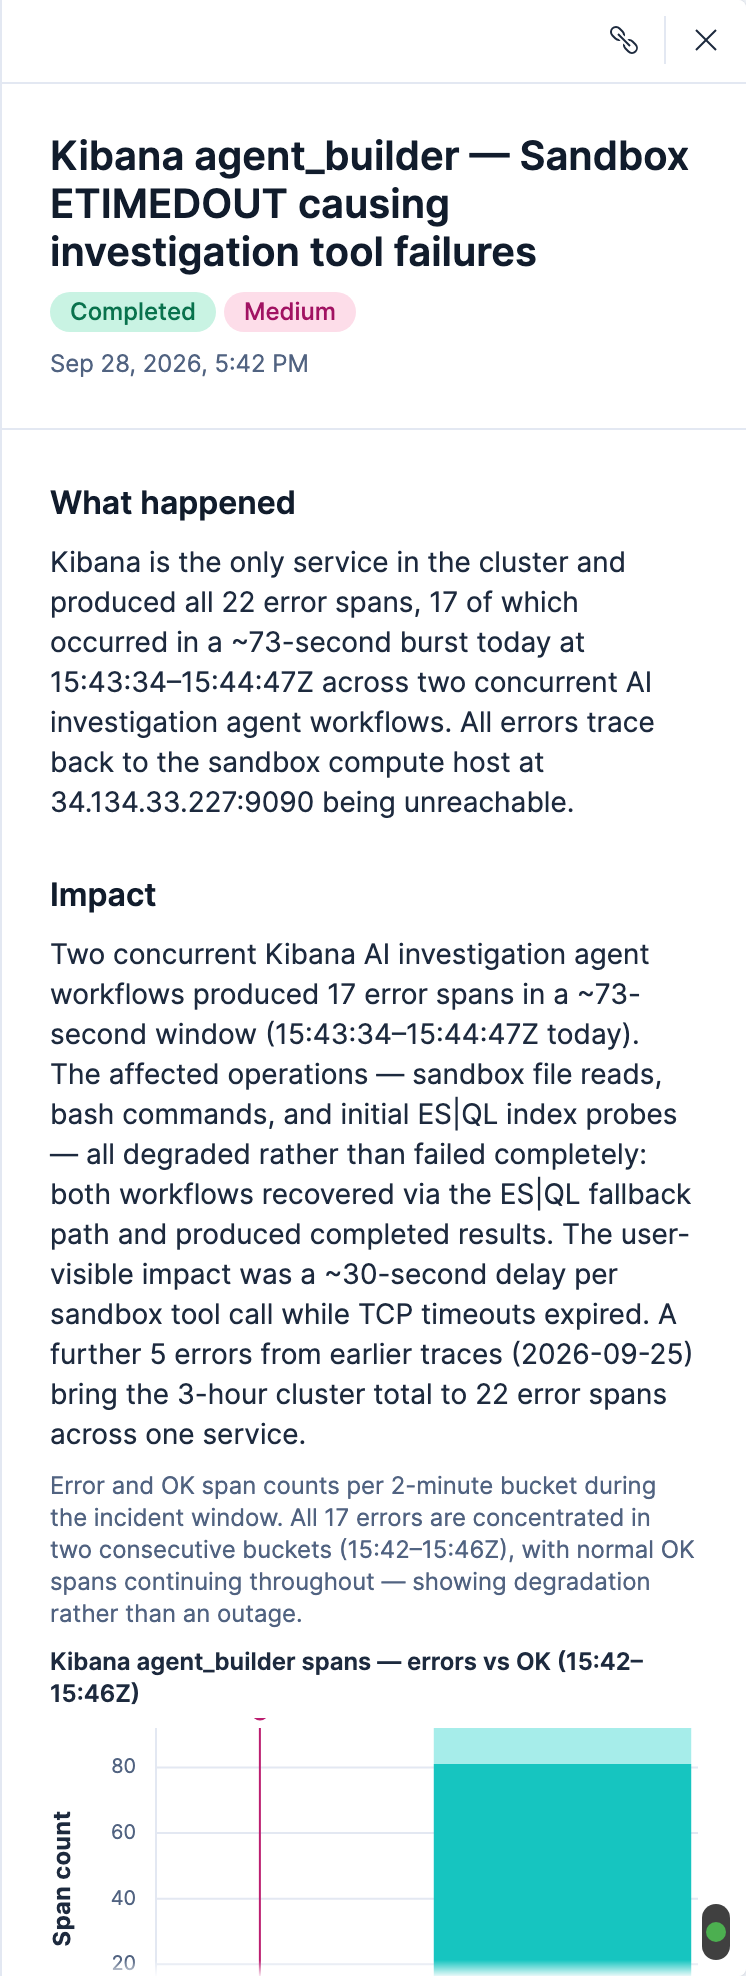
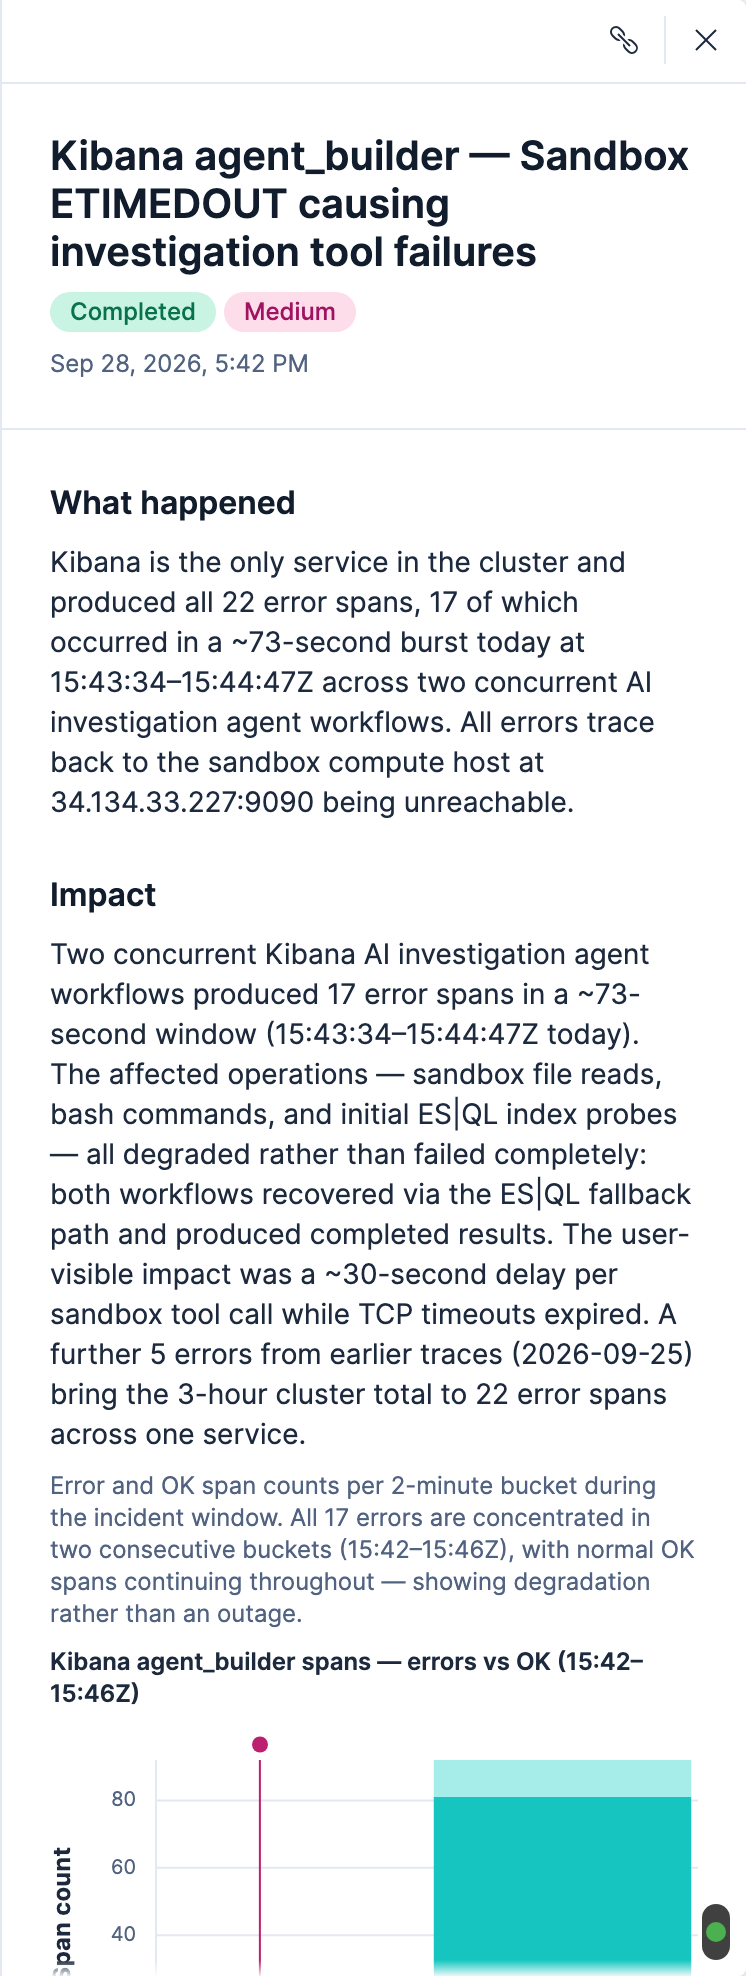
Collapse per-entity impact evidence, make room for chart annotations, list annotation labels; refresh screenshots

diff --git a/x-pack/solutions/observability/packages/kbn-investigation-output/src/evidence_chart.tsx b/x-pack/solutions/observability/packages/kbn-investigation-output/src/evidence_chart.tsx
@@ -36,7 +36,9 @@ import { getTimeZone } from '@kbn/visualization-utils';
 import moment from 'moment-timezone';
 import type { EvidenceChart as EvidenceChartSpec } from '@kbn/significant-events-schema';
 
-const CHART_HEIGHT = 180;
+const CHART_HEIGHT = 200;
+/** Room above the plot for point annotation markers, which are drawn above its top edge. */
+const ANNOTATION_MARKER_MARGIN = 16;
 
 type YAxisUnit = NonNullable<EvidenceChartSpec['y_axis']['unit']>;
 
@@ -154,6 +156,22 @@ export const EvidenceChart: React.FC<EvidenceChartProps> = ({ chart }) => {
     return { pointAnnotations: points, rangeAnnotations: ranges };
   }, [chart.annotations, isTime]);
 
+  const hasAnnotations = pointAnnotations.length > 0 || rangeAnnotations.length > 0;
+  // Point annotation markers are drawn above the plot, so reserve room for them there.
+  const hasPointAnnotations = pointAnnotations.length > 0;
+  const chartTheme = useMemo(
+    () =>
+      hasPointAnnotations
+        ? {
+            chartMargins: {
+              ...baseTheme.chartMargins,
+              top: baseTheme.chartMargins.top + ANNOTATION_MARKER_MARGIN,
+            },
+          }
+        : undefined,
+    [baseTheme.chartMargins, hasPointAnnotations]
+  );
+
   const xScaleType = isTime ? ScaleType.Time : ScaleType.Ordinal;
   const hasData = series.some(({ data }) => data.length > 0);
   const showLegend = series.length > 1;
@@ -170,7 +188,7 @@ export const EvidenceChart: React.FC<EvidenceChartProps> = ({ chart }) => {
         <>
           <EuiSpacer size="xs" />
           <Chart size={{ height: CHART_HEIGHT }}>
-            <Settings baseTheme={baseTheme} showLegend={false} />
+            <Settings baseTheme={baseTheme} theme={chartTheme} showLegend={false} />
             <Axis
               id="x"
               position={Position.Bottom}
@@ -233,7 +251,7 @@ export const EvidenceChart: React.FC<EvidenceChartProps> = ({ chart }) => {
               />
             )}
           </Chart>
-          {showLegend && (
+          {(showLegend || hasAnnotations) && (
             <EuiFlexGroup
               gutterSize="s"
               wrap
@@ -243,11 +261,48 @@ export const EvidenceChart: React.FC<EvidenceChartProps> = ({ chart }) => {
               responsive={false}
               data-test-subj="investigationEvidenceChartLegend"
             >
-              {series.map(({ id, name }, index) => (
-                <EuiFlexItem key={id} grow={false}>
-                  <EuiHealth color={seriesColors[index % seriesColors.length]} textSize="xs">
-                    {name}
+              {showLegend &&
+                series.map(({ id, name }, index) => (
+                  <EuiFlexItem key={id} grow={false}>
+                    <EuiHealth color={seriesColors[index % seriesColors.length]} textSize="xs">
+                      {name}
+                    </EuiHealth>
+                  </EuiFlexItem>
+                ))}
+              {pointAnnotations.map(({ details }, index) => (
+                <EuiFlexItem
+                  key={`point-${index}`}
+                  grow={false}
+                  data-test-subj="investigationEvidenceChartAnnotation"
+                >
+                  <EuiHealth color={euiTheme.colors.accent} textSize="xs">
+                    {details}
                   </EuiHealth>
+                </EuiFlexItem>
+              ))}
+              {rangeAnnotations.map(({ details }, index) => (
+                <EuiFlexItem
+                  key={`range-${index}`}
+                  grow={false}
+                  data-test-subj="investigationEvidenceChartAnnotation"
+                >
+                  <EuiFlexGroup gutterSize="xs" alignItems="center" responsive={false}>
+                    <EuiFlexItem grow={false}>
+                      <span
+                        aria-hidden={true}
+                        css={css`
+                          display: inline-block;
+                          width: ${euiTheme.size.m};
+                          height: ${euiTheme.size.s};
+                          background: ${euiTheme.colors.accent};
+                          opacity: 0.3;
+                        `}
+                      />
+                    </EuiFlexItem>
+                    <EuiFlexItem grow={false}>
+                      <EuiText size="xs">{details}</EuiText>
+                    </EuiFlexItem>
+                  </EuiFlexGroup>
                 </EuiFlexItem>
               ))}
             </EuiFlexGroup>

diff --git a/x-pack/solutions/observability/packages/kbn-investigation-output/src/impact_section.tsx b/x-pack/solutions/observability/packages/kbn-investigation-output/src/impact_section.tsx
@@ -6,14 +6,64 @@
  */
 
 import React from 'react';
-import { EuiBadge, EuiFlexGroup, EuiFlexItem, EuiPanel, EuiSpacer, EuiText } from '@elastic/eui';
-import type { InvestigationImpact } from '@kbn/significant-events-schema';
+import {
+  EuiAccordion,
+  EuiBadge,
+  EuiFlexGroup,
+  EuiFlexItem,
+  EuiPanel,
+  EuiSpacer,
+  EuiText,
+  useGeneratedHtmlId,
+} from '@elastic/eui';
+import type {
+  InvestigationImpact,
+  InvestigationImpactEntity,
+} from '@kbn/significant-events-schema';
 import { EvidenceItem } from './evidence_list';
 import { EvidenceMarkdown } from './evidence_markdown';
 
 export interface ImpactSectionProps {
   impact: InvestigationImpact;
 }
+
+const EntityHeader: React.FC<{ entity: InvestigationImpactEntity }> = ({ entity }) => (
+  <EuiFlexGroup alignItems="center" gutterSize="s" responsive={false}>
+    <EuiFlexItem grow={false}>
+      <EuiText size="s">
+        <strong>{entity.name}</strong>
+      </EuiText>
+    </EuiFlexItem>
+    {entity.type && (
+      <EuiFlexItem grow={false}>
+        <EuiBadge color="hollow">{entity.type}</EuiBadge>
+      </EuiFlexItem>
+    )}
+  </EuiFlexGroup>
+);
+
+/** One impacted entity; its evidence is collapsed by default so the impact summary leads. */
+const ImpactEntity: React.FC<{ entity: InvestigationImpactEntity }> = ({ entity }) => {
+  const accordionId = useGeneratedHtmlId({ prefix: 'investigationImpactEntity' });
+
+  return (
+    <EuiPanel hasBorder hasShadow={false} paddingSize="s">
+      {entity.evidence ? (
+        <EuiAccordion
+          id={accordionId}
+          buttonContent={<EntityHeader entity={entity} />}
+          paddingSize="none"
+          data-test-subj="investigationOutputImpactEntityAccordion"
+        >
+          <EuiSpacer size="xs" />
+          <EvidenceItem evidence={entity.evidence} />
+        </EuiAccordion>
+      ) : (
+        <EntityHeader entity={entity} />
+      )}
+    </EuiPanel>
+  );
+};
 
 /**
  * What the investigation found was affected: the impact narrative and the evidence backing it,
@@ -52,26 +102,7 @@ export const ImpactSection: React.FC<ImpactSectionProps> = ({
                 grow={false}
                 data-test-subj="investigationOutputImpactEntity"
               >
-                <EuiPanel hasBorder hasShadow={false} paddingSize="s">
-                  <EuiFlexGroup alignItems="center" gutterSize="s" responsive={false}>
-                    <EuiFlexItem grow={false}>
-                      <EuiText size="s">
-                        <strong>{entity.name}</strong>
-                      </EuiText>
-                    </EuiFlexItem>
-                    {entity.type && (
-                      <EuiFlexItem grow={false}>
-                        <EuiBadge color="hollow">{entity.type}</EuiBadge>
-                      </EuiFlexItem>
-                    )}
-                  </EuiFlexGroup>
-                  {entity.evidence && (
-                    <>
-                      <EuiSpacer size="xs" />
-                      <EvidenceItem evidence={entity.evidence} />
-                    </>
-                  )}
-                </EuiPanel>
+                <ImpactEntity entity={entity} />
               </EuiFlexItem>
             ))}
           </EuiFlexGroup>

diff --git a/x-pack/solutions/observability/packages/kbn-investigation-output/src/evidence_chart.test.tsx b/x-pack/solutions/observability/packages/kbn-investigation-output/src/evidence_chart.test.tsx
@@ -6,7 +6,7 @@
  */
 
 import React from 'react';
-import { render } from '@testing-library/react';
+import { render, screen } from '@testing-library/react';
 import moment from 'moment-timezone';
 import type { IUiSettingsClient } from '@kbn/core-ui-settings-browser';
 import { KibanaContextProvider } from '@kbn/kibana-react-plugin/public';
@@ -28,6 +28,8 @@ jest.mock('@elastic/charts', () => {
     Axis: () => null,
     LineSeries: MockSeries,
     BarSeries: MockSeries,
+    LineAnnotation: () => null,
+    RectAnnotation: () => null,
   };
 });
 
@@ -87,5 +89,31 @@ describe('EvidenceChart', () => {
     expect(mockSeriesProps).toHaveBeenCalledWith(
       expect.objectContaining({ timeZone: moment.tz.guess(true) })
     );
+  });
+
+  it('lists point and range annotation labels below the chart', () => {
+    render(
+      <EvidenceChart
+        chart={{
+          ...chart,
+          annotations: [
+            { x: '2026-07-28T14:01:00Z', label: 'Deploy v2.3.1' },
+            { x: '2026-07-28T14:02:00Z', x_end: '2026-07-28T14:04:00Z', label: 'Pool exhausted' },
+          ],
+        }}
+      />
+    );
+
+    const annotations = screen.getAllByTestId('investigationEvidenceChartAnnotation');
+    expect(annotations.map((annotation) => annotation.textContent)).toEqual([
+      'Deploy v2.3.1',
+      'Pool exhausted',
+    ]);
+  });
+
+  it('renders no annotation list without annotations', () => {
+    render(<EvidenceChart chart={chart} />);
+
+    expect(screen.queryByTestId('investigationEvidenceChartAnnotation')).not.toBeInTheDocument();
   });
 });

diff --git a/x-pack/solutions/observability/packages/kbn-investigation-output/src/impact_section.test.tsx b/x-pack/solutions/observability/packages/kbn-investigation-output/src/impact_section.test.tsx
@@ -6,7 +6,7 @@
  */
 
 import React from 'react';
-import { render, screen } from '@testing-library/react';
+import { fireEvent, render, screen } from '@testing-library/react';
 import { I18nProvider } from '@kbn/i18n-react';
 import { ImpactSection } from './impact_section';
 
@@ -62,6 +62,15 @@ describe('ImpactSection', () => {
     ).toBeInTheDocument();
     expect(screen.getAllByTestId('investigationOutputImpactEntity')).toHaveLength(2);
     expect(screen.getByText('service')).toBeInTheDocument();
-    expect(screen.getByText('Error rate peaked at 31%.')).toBeInTheDocument();
+
+    // Entity evidence starts collapsed and expands on click.
+    const toggle = screen.getByRole('button', { name: /checkout-service/ });
+    expect(toggle).toHaveAttribute('aria-expanded', 'false');
+    fireEvent.click(toggle);
+    expect(toggle).toHaveAttribute('aria-expanded', 'true');
+    expect(screen.getByText('Error rate peaked at 31%.')).toBeVisible();
+
+    // An entity without evidence has nothing to expand.
+    expect(screen.queryByRole('button', { name: /payments-db/ })).not.toBeInTheDocument();
   });
 });

diff --git a/x-pack/solutions/observability/packages/kbn-investigation-output/src/evidence_list.test.tsx b/x-pack/solutions/observability/packages/kbn-investigation-output/src/evidence_list.test.tsx
@@ -87,10 +87,18 @@ describe('EvidenceList', () => {
     expect(legend).toHaveTextContent('all other repositories p99');
   });
 
-  it('renders no legend for a single-series chart', () => {
-    renderEvidence([chartEvidence]);
+  it('renders no series legend entry for a single-series chart', () => {
+    renderEvidence([{ ...chartEvidence, chart: { ...sampleChart, annotations: undefined } }]);
 
     expect(screen.queryByTestId('investigationEvidenceChartLegend')).not.toBeInTheDocument();
+  });
+
+  it('lists only the annotations in the legend of a single-series chart', () => {
+    renderEvidence([chartEvidence]);
+
+    const legend = screen.getByTestId('investigationEvidenceChartLegend');
+    expect(legend).toHaveTextContent('Deploy');
+    expect(legend).not.toHaveTextContent('orders-api');
   });
 
   it('renders an observation without a chart', () => {
